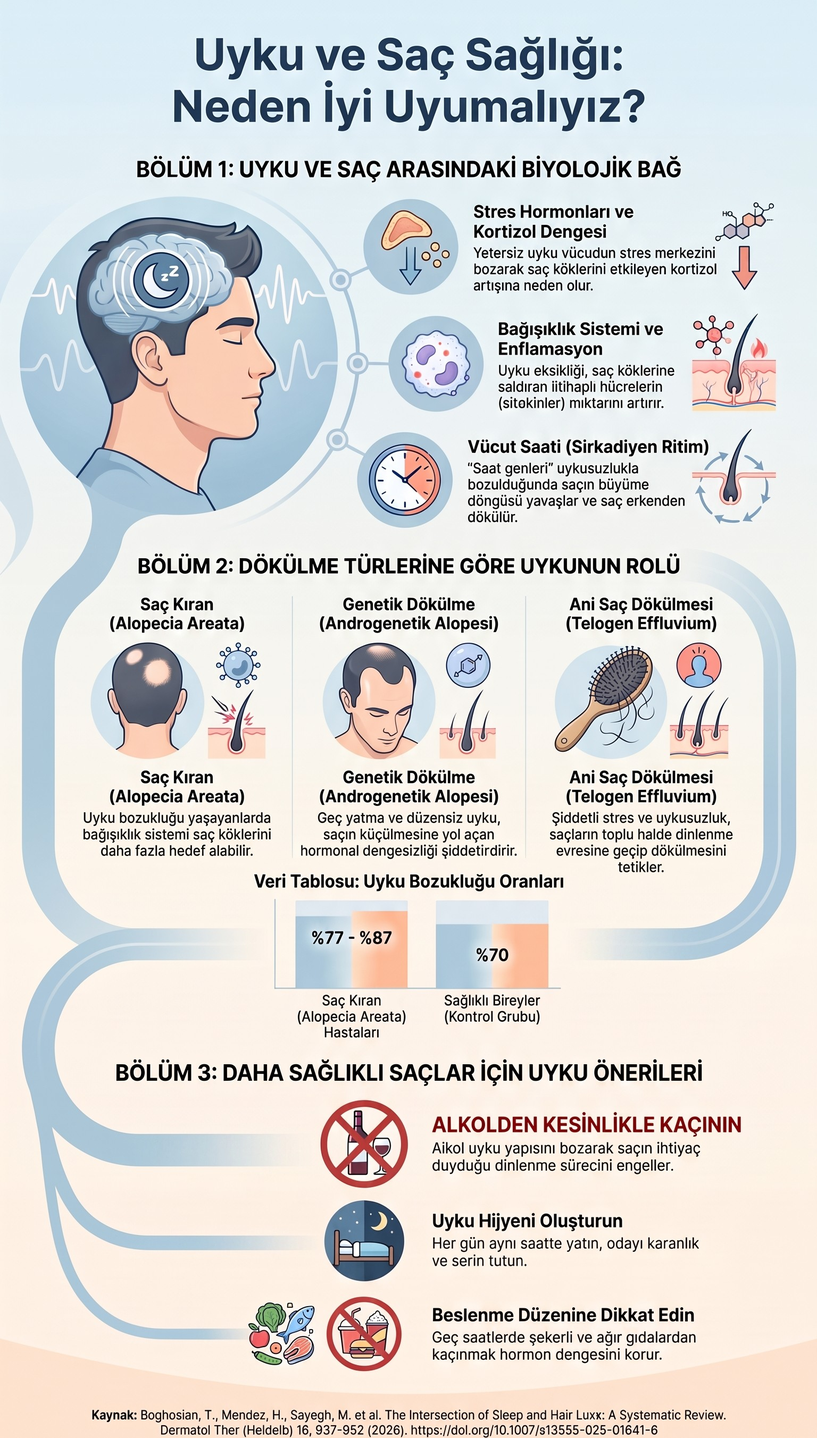
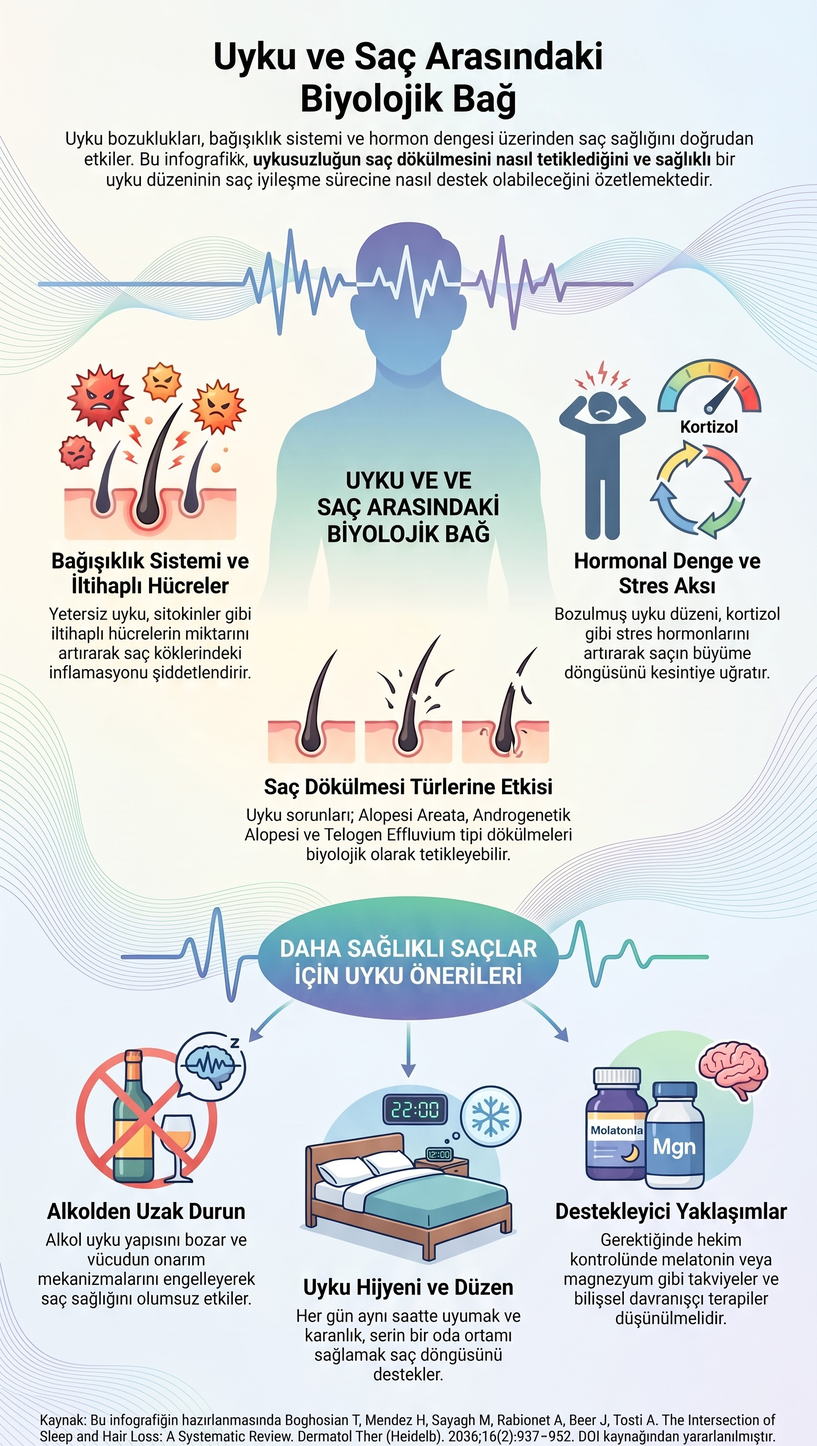
Uyku ve saç sağlığı infografiğini güncel sürümüyle değiştir
Görsel yenilendi; veri tablosu kaldırıldığı ve "Destekleyici
Yaklaşımlar" maddesi eklendiği için alt metin yeniden yazıldı, uyarı
metninden veri tablosu açıklaması çıkarılıp takviye uyarısı eklendi,
görsel boyutu güncellendi.

Claude-Session: https://claude.ai/code/session_01JhEv671xvcj7NYuhVkgq1Y

diff --git a/yazilar/uyku-sac-sagligi.html b/yazilar/uyku-sac-sagligi.html
@@ -112,12 +112,12 @@
 
   <figure class="figure">
     <img src="../gorseller/uyku-sac-sagligi.jpg"
-         alt="Uyku ve saç sağlığı infografiği, üç bölümden oluşmaktadır. Birinci bölümde uyku ile saç arasındaki biyolojik bağ anlatılmaktadır: yetersiz uykunun vücudun stres merkezini etkileyerek saç köklerini ilgilendiren kortizol artışına yol açabileceği; uyku eksikliğinin saç köklerine yönelen iltihaplı hücrelerin (sitokinler) miktarını artırabileceği; vücut saatinin, yani sirkadiyen ritmin uykusuzlukla bozulması durumunda saçın büyüme döngüsünün yavaşlayabileceği belirtilmektedir. İkinci bölümde uykunun dökülme türlerine göre rolü ele alınmaktadır: saç kıranda (alopesi areata) bağışıklık sisteminin saç köklerini daha fazla hedef alabileceği; genetik dökülmede (androgenetik alopesi) geç yatma ve düzensiz uykunun saç telinin incelmesine yol açan hormonal dengesizliği ağırlaştırabileceği; ani saç dökülmesinde (telogen effluvium) şiddetli stres ve uykusuzluğun saçların toplu hâlde dinlenme evresine geçmesini tetikleyebileceği anlatılmaktadır. Bölümdeki veri tablosunda, saç kıran hastalarında kötü uyku kalitesi oranının yüzde 77 ile 87 arasında, kontrol grubundaki sağlıklı bireylerde ise yüzde 70 olarak bildirildiği gösterilmektedir. Üçüncü bölümde daha sağlıklı saçlar için uyku önerileri sıralanmaktadır: alkolden kaçınmak, her gün aynı saatte yatıp odayı karanlık ve serin tutarak uyku hijyeni oluşturmak ve geç saatlerde şekerli ve ağır gıdalardan uzak durmak."
-         loading="lazy" width="1536" height="2705">
+         alt="Uyku ve saç arasındaki biyolojik bağı anlatan infografik. Yetersiz uykunun, sitokinler gibi iltihaplı hücrelerin miktarını artırarak saç köklerindeki inflamasyonu ağırlaştırabileceği; bozulmuş uyku düzeninin kortizol gibi stres hormonlarını artırarak saçın büyüme döngüsünü kesintiye uğratabileceği; uyku sorunlarının alopesi areata, androgenetik alopesi ve telogen effluvium tipi dökülmelerde rol oynayabileceği belirtilmektedir. Daha sağlıklı saçlar için üç uyku önerisi sıralanmaktadır: alkolden uzak durmak, çünkü alkol uyku yapısını bozarak vücudun onarım süreçlerini engeller; her gün aynı saatte uyuyup odayı karanlık ve serin tutarak uyku hijyeni sağlamak; gerektiğinde hekim kontrolünde melatonin veya magnezyum gibi takviyeler ile bilişsel davranışçı terapileri değerlendirmek."
+         loading="lazy" width="1536" height="2720">
   </figure>
   <p class="figure-note">Görseli büyütmek için <a href="../gorseller/uyku-sac-sagligi.jpg" target="_blank" rel="noopener">tam boyutta açabilirsiniz</a>.</p>
 
-  <p class="disclaimer">Bu sayfadaki bilgiler yalnızca genel bilgilendirme amaçlıdır; tanı ve tedavi yerine geçmez. Görselin dayandığı derlemede yer alan çalışmaların çoğu kesitsel niteliktedir ve bu nedenle <em>uykusuzluğun saç dökülmesine yol açtığı</em> sonucuna varılamaz; gösterilen bağlantılar neden-sonuç değil, birliktelik ilişkileridir ve ilişkinin iki yönlü olduğu düşünülmektedir. Veri tablosundaki oranlar da dikkatle okunmalıdır: bunlar bir uyku anketiyle saptanan kötü uyku kalitesini gösterir, tanı konmuş bir uyku hastalığını değil; kontrol grubunda da oran yüksektir (%70), dolayısıyla iki grup arasındaki fark göründüğünden daha sınırlıdır. Uyku düzenini iyileştirmek düşük riskli ve yararlı bir adımdır, ancak saç dökülmesinin tedavisinin yerini tutmaz. Saç dökülmeniz varsa bir dermatoloji uzmanına; uykuyla ilgili süregelen yakınmalarınız varsa bir uyku veya ruh sağlığı uzmanına başvurunuz.</p>
+  <p class="disclaimer">Bu sayfadaki bilgiler yalnızca genel bilgilendirme amaçlıdır; tanı ve tedavi yerine geçmez. Görselin dayandığı derlemede yer alan çalışmaların çoğu kesitsel niteliktedir ve hiçbiri girişimsel değildir; bu nedenle <em>uykusuzluğun saç dökülmesine yol açtığı</em> sonucuna varılamaz. Gösterilen bağlantılar neden-sonuç değil, birliktelik ilişkileridir ve ilişkinin iki yönlü olduğu düşünülmektedir: kötü uyku saç sağlığını etkileyebildiği gibi, saç dökülmesinin getirdiği sıkıntı da uykuyu bozabilir. Uyku düzenini iyileştirmek düşük riskli ve genel sağlık açısından yararlı bir adımdır, ancak saç dökülmesinin tedavisinin yerini tutmaz. Melatonin, magnezyum ve benzeri takviyeleri hekiminize danışmadan kullanmayınız. Saç dökülmeniz varsa bir dermatoloji uzmanına; uykuyla ilgili süregelen yakınmalarınız varsa bir uyku veya ruh sağlığı uzmanına başvurunuz.</p>
 
   <a class="back-link" href="../index.html#halka">← Ruh sağlığı hakkında bölümüne dön</a>
 </main>
